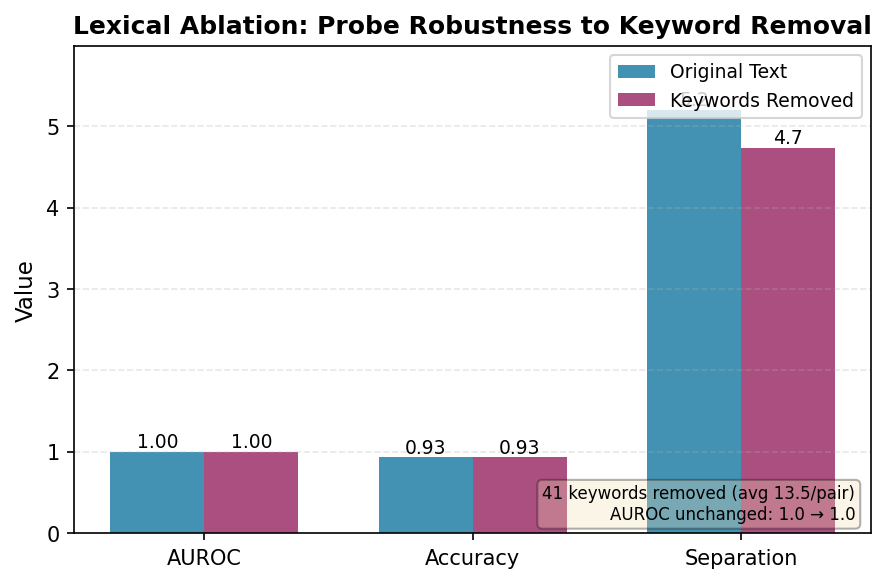
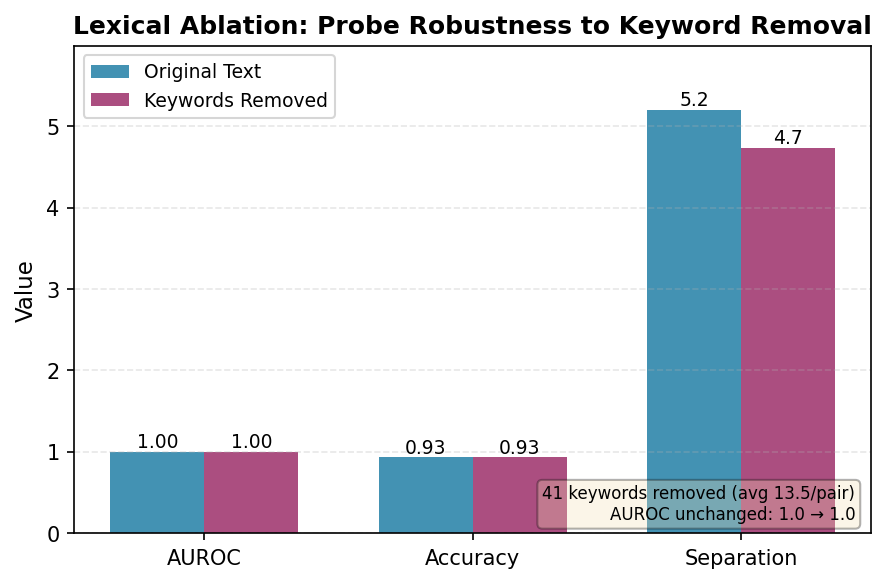
Fix Figure 5 legend position blocking data
- Move legend from upper right to upper left to avoid overlapping with Separation bar value
- Regenerate figure5_lexical_ablation.pdf/png with improved layout
- Recompile paper with updated figure

🤖 Generated with Claude Code

Changed region(s): [[0.6697, 0.0926, 0.9741, 0.2161], [0.0913, 0.0926, 0.3957, 0.2161]]

diff --git a/src/visualize_lexical_ablation.py b/src/visualize_lexical_ablation.py
@@ -45,7 +45,7 @@ ax.set_title('Lexical Ablation: Probe Robustness to Keyword Removal',
              fontsize=12, fontweight='bold')
 ax.set_xticks(x)
 ax.set_xticklabels(labels, fontsize=10)
-ax.legend(fontsize=9, loc='upper right')
+ax.legend(fontsize=9, loc='upper left')  # Moved from upper right to upper left
 ax.grid(axis='y', alpha=0.3, linestyle='--')
 ax.set_ylim(0, max(original_values + ablated_values) * 1.15)
 
